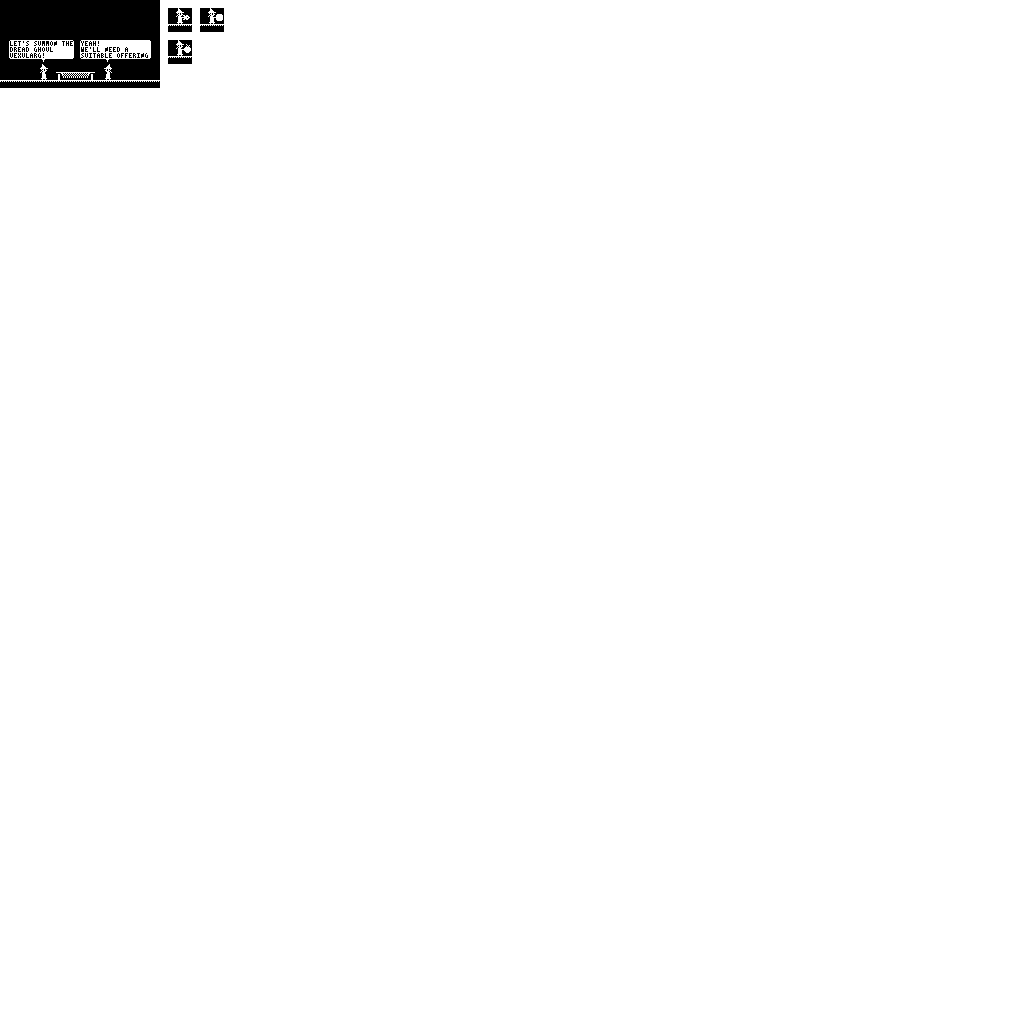
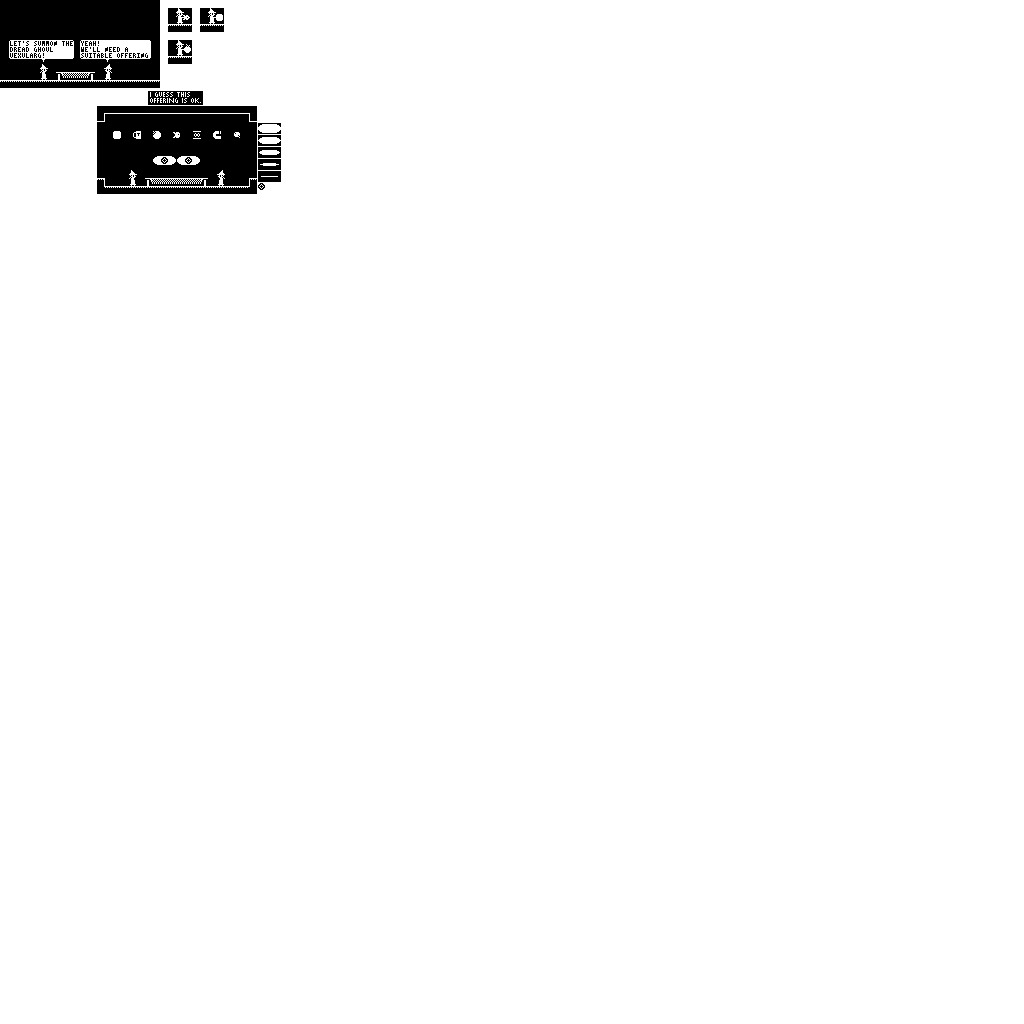
gameover modal

Changed region(s): [[0.0938, 0.0625, 0.2812, 0.1875]]

diff --git a/src/game/gameover.c b/src/game/gameover.c
@@ -11,7 +11,8 @@ void gameover_begin() {
   g.modal_blackout=1.000;
   g.gameover_clock=0.0;
   
-  //TODO song
+  // Music stops as the suspense builds...
+  song(0);
   
   /* Put the hero sprite in her initial position, and tell the camera to cut.
    * Note the bounds of the offeratorium.
@@ -96,9 +97,8 @@ void gameover_begin() {
    */
   const char *msg=0;
   int msgc=res_get_string(&msg,1,5+g.score);
-  fprintf(stderr,"score=%d, Vexularg's opinion: '%.*s'\n",g.score,msgc,msg);
   if (!g.texid_judgment) g.texid_judgment=egg_texture_new();
-  const int msg_wlimit=NS_sys_tilesize*7-4;
+  const int msg_wlimit=NS_sys_tilesize*10-4;
   const int msg_hlimit=NS_sys_tilesize*3-4;
   font_render_to_texture(g.texid_judgment,g.font,msg,msgc,msg_wlimit,msg_hlimit,0x000000ff);
   egg_texture_get_size(&g.judgmentw,&g.judgmenth,g.texid_judgment);
@@ -108,12 +108,24 @@ void gameover_begin() {
  */
  
 void gameover_update(double elapsed) {
+  double pvclock=g.gameover_clock;
   g.gameover_clock+=elapsed;
+  
   if (g.modal_blackout>0.500) {
     g.modal_blackout-=elapsed;
   } else {
     if ((g.input&EGG_BTN_SOUTH)&&!(g.pvinput&EGG_BTN_SOUTH)) {
       hello_begin();
+    }
+  }
+  
+  // Start the gameover music about when the message appears.
+  double musictime=g.thingc?9.5:5.5;
+  if ((g.gameover_clock>=musictime)&&(pvclock<musictime)) {
+    if (g.score>=NS_score_ok) {
+      song(RID_song_unto_thee);//TODO success music
+    } else {
+      song(RID_song_unto_thee);//TODO failure music
     }
   }
   
@@ -133,13 +145,70 @@ void gameover_update(double elapsed) {
  */
  
 void gameover_render() {
+
+  /* Timing is different depending on whether at least one thing is present.
+   * The first phase of gameover is showing the things levitate up to the offeratory position,
+   * but that is noop when there aren't any things, so skip it.
+   * They reach the offeratory position at 5 seconds on gameover_clock.
+   */
+  double eye_open_start_time,eye_open_end_time,sweep_start_time,sweep_end_time,msg_start_time;
+  int sweep_dir; // -1=up, 1=down
+  if (g.thingc) {
+    eye_open_start_time=5.0;
+    sweep_dir=-1;
+  } else {
+    eye_open_start_time=1.0;
+    sweep_dir=1;
+  }
+  eye_open_end_time=eye_open_start_time+1.0;
+  sweep_start_time=eye_open_end_time+0.5;
+  sweep_end_time=sweep_start_time+2.0;
+  msg_start_time=sweep_end_time+1.0;
   
-  //TODO After the things have landed, say 6 or 7 seconds on gameover_clock, Vexularg appears and passes judgment.
-  // Needs a word bubble, and graphics for Vexularg.
-  if (g.gameover_clock>=6.0) {
+  /* Eyes.
+   */
+  int eyeopenness=(int)((g.gameover_clock-eye_open_start_time)*5.0)/(eye_open_end_time-eye_open_start_time); // 0=closed .. 5=open
+  if (eyeopenness>0) {
+    if (eyeopenness>5) eyeopenness=5;
+    const int eyew=23;
+    const int eyeh=11;
+    const int leyex=(FBW>>1)-1-eyew;
+    const int reyex=FBW>>1;
+    const int eyey=FBH>>1;
+    // Natural eyeball positions:
+    int lballx=leyex+(eyew>>1)+1;
+    int lbally=eyey+(eyeh>>1)+1;
+    int rballx=reyex+(eyew>>1)+1;
+    int rbally=eyey+(eyeh>>1)+1;
+    // Modify eyeball positions per sweep:
+    double sweept=(g.gameover_clock-sweep_start_time)/(sweep_end_time-sweep_start_time);
+    if ((sweept>0.0)&&(sweept<1.0)) {
+      double nx=sin(sweept*M_PI*2.0);
+      double ny=(cos(sweept*M_PI*2.0)-1.0)/2.0;
+      if (sweep_dir>0) ny=-ny;
+      int dx=(int)(nx*10.0); // horizontal radius
+      int dy=(int)(ny* 4.0); // vertical radius
+      lballx+=dx;
+      lbally+=dy;
+      rballx+=dx;
+      rbally+=dy;
+    }
+    graf_fill_rect(&g.graf,leyex,eyey,eyew,eyeh,0xffffffff);
+    graf_fill_rect(&g.graf,reyex,eyey,eyew,eyeh,0xffffffff);
+    graf_set_input(&g.graf,g.texid_sprites);
+    graf_tile(&g.graf,lballx,lbally,0x7f,0);
+    graf_tile(&g.graf,rballx,rbally,0x7f,0);
+    graf_decal(&g.graf,leyex,eyey,0,119-eyeopenness*eyeh,eyew,eyeh);
+    graf_decal(&g.graf,reyex,eyey,0,119-eyeopenness*eyeh,eyew,eyeh);
+  }
+
+  /* The final judgment, revealed after a tasteful interval.
+   */
+  if (g.gameover_clock>=msg_start_time) {
     graf_set_input(&g.graf,g.texid_judgment);
     graf_set_tint(&g.graf,0xffffffff);
-    graf_decal(&g.graf,(FBW>>1)-(g.judgmentw>>1),(FBH>>1)-(g.judgmenth>>1),0,0,g.judgmentw,g.judgmenth);
+    int dsty=(FBH>>1)+20-(g.judgmenth>>1);
+    graf_decal(&g.graf,(FBW>>1)-(g.judgmentw>>1),dsty,0,0,g.judgmentw,g.judgmenth);
     graf_set_tint(&g.graf,0);
   }
 }

diff --git a/src/game/scene.c b/src/game/scene.c
@@ -40,6 +40,35 @@ int scene_reset() {
   g.hello_running=0;
   g.gameover_running=0;
   
+  //XXX During dev, enable this block to end the session fast with the given things moved to the altar.
+  if (0) {
+    const int collected[]={};
+    //const int collected[]={RID_sprite_fish}; // First invalid case.
+    //const int collected[]={RID_sprite_marshmallow}; // Second invalid case.
+    //const int collected[]={RID_sprite_marshmallow,RID_sprite_fish}; // Minimum required things.
+    //const int collected[]={RID_sprite_marshmallow,RID_sprite_fish,RID_sprite_teacup,RID_sprite_tomato,RID_sprite_balloon,RID_sprite_trampoline,RID_sprite_fan,RID_sprite_magnet}; // All the things.
+    int collectedc=sizeof(collected)/sizeof(int);
+    fprintf(stderr,"***** instant end, %d things requested *****\n",collectedc);
+    struct sprite **spritep=g.spritev;
+    int i=g.spritec;
+    for (;i-->0;spritep++) {
+      struct sprite *sprite=*spritep;
+      int iscollected=0;
+      const int *p=collected;
+      int ii=collectedc;
+      for (;ii-->0;p++) {
+        if (*p==sprite->rid) {
+          iscollected=1;
+          break;
+        }
+      }
+      if (!iscollected) continue;
+      sprite->x=g.mapw*0.5;
+      sprite->y=g.maph*0.5;
+    }
+    g.time_remaining=3.0;
+  }
+  
   return 0;
 }
 

diff --git a/src/game/main.c b/src/game/main.c
@@ -42,11 +42,6 @@ void egg_client_notify(int k,int v) {
 void egg_client_update(double elapsed) {
   g.pvinput=g.input;
   g.input=egg_input_get_one(0);
-  
-  if (0) { // XXX Run the clock fast until close to expiry, for testing the spell's timing.
-    if (g.time_remaining>=5.0) elapsed*=20.0;
-  }
-  
   if (g.hello_running) {
     hello_update(elapsed);
   } else {

diff --git a/src/game/sprite/sprite_moon.c b/src/game/sprite/sprite_moon.c
@@ -65,6 +65,9 @@ static void _moon_update(struct sprite *sprite,double elapsed) {
     if (++(SPRITE->animframe)>=2) SPRITE->animframe=0;
   }
   SPRITE->scroll+=elapsed*SCROLL_RATE;
+  
+  // Force to the end of the incantation if the global time is up (eg for fast-forward dev runs).
+  if (g.time_remaining<=0.0) SPRITE->scroll=SPRITE->texh;
 }
 
 /* Render.

diff --git a/src/game/hello.c b/src/game/hello.c
@@ -7,7 +7,7 @@ void hello_begin() {
   g.hello_running=1;
   g.gameover_running=0;
   g.modal_blackout=0.500;
-  //TODO song
+  song(RID_song_unto_thee);//TODO song
 }
 
 /* Update.

diff --git a/README.md b/README.md
@@ -37,11 +37,11 @@ One tilesheet for terrain and one for sprites. Try not to need more.
 - - In the test map with a 2:00 limit, I can only get 7/8 items, and that's a stretch.
 - - ...actually, can get all 8. But again, a stretch.
 - [ ] Parallax background. Rain and clouds and such, that you see thru windows. Entirely decorative.
-- [ ] Music.
+- [ ] Music: hello, success, failure.
 - [ ] Sound effects. ...defer until the weekend, so I can have the MIDI rig on hand.
 - [x] Session clock. Count down. "2 minutes to recite this incantation, collect the offering before that!"
 - [x] Moon reciting the incantation.
 - [ ] Hello modal.
-- [ ] Gameover modal.
+- [x] Gameover modal.
 - [ ] Coyote time.
 - [ ] Landing dust.
